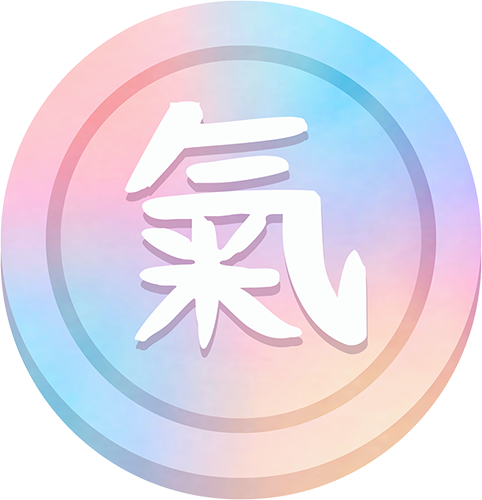
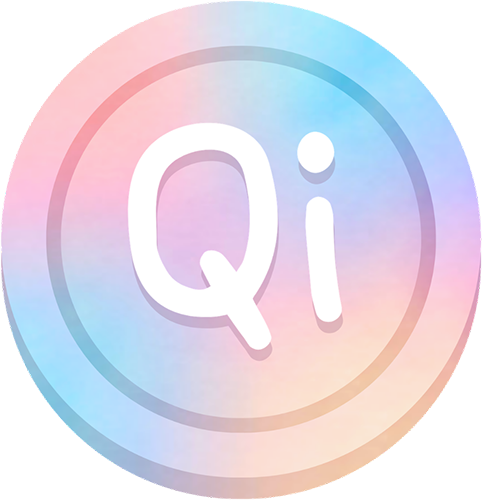
fix(v2): แบรนด์ "มูเมท", คำ 3 เท่า, และเหรียญ/ไอคอนเป็น "Qi" อังกฤษแทน 氣
- slide 1: หน้ายินดีต้อนรับ "มิวเมท" → "มูเมท"
- slide 6: "คนที่ตั้งเวลาอ่านต่อเนื่อง..." → "คนที่ตั้งเวลาอ่าน ทำต่อเนื่อง..." (ManifestScreen)
- slide 8: โทเคนทุกจุดใช้ไฟล์ Qi (อังกฤษ) แทนอักษรจีน 氣 — เขียนทับ qi-coin.png + guide/orb.png
  (ใช้ในหน้าโปรไฟล์/ดวง/แชท/ซื้อ QI/เช็คอิน) + เปลี่ยนภาพ hero คู่มือพลังชี่เป็นภาพใหม่ (2 มาสคอตถือ Qi)

Changed region(s): [[0.249, 0.18, 0.778, 0.72], [0.9959, 0.54, 1.0, 0.57], [0.9959, 0.45, 1.0, 0.48]]

diff --git a/features/v2-service/components/ManifestScreen.tsx b/features/v2-service/components/ManifestScreen.tsx
@@ -203,7 +203,7 @@ function ReminderCard() {
   return (
     <section className="rounded-[24px] bg-white p-5 v3-shadow-card" data-testid="manifest-reminder">
       <p className="text-[16px] font-bold text-v3-navy">ตั้งเวลาแมนิเฟสต์</p>
-      <p className="mt-1 text-[12px] leading-4 text-v3-text-muted">คนที่ตั้งเวลาอ่านต่อเนื่องได้นานกว่าถึง 3 เท่า</p>
+      <p className="mt-1 text-[12px] leading-4 text-v3-text-muted">คนที่ตั้งเวลาอ่าน ทำต่อเนื่องได้นานกว่าถึง 3 เท่า</p>
       <div className="mt-3 flex items-center justify-between rounded-[16px] bg-v3-ghost-white px-4 py-3">
         <div>
           <input type="time" value={time} onChange={(e) => { setTime(e.target.value); persist(e.target.value, on) }} className="bg-transparent text-[20px] font-black text-v3-navy outline-none" data-testid="manifest-reminder-time" />

diff --git a/features/v2-qi/components/QiScreen.tsx b/features/v2-qi/components/QiScreen.tsx
@@ -224,7 +224,7 @@ export function QiScreen() {
           <section data-testid="qi-hero" className="flex flex-col items-center overflow-hidden rounded-[22px] bg-white text-center">
             {/* รูปมาสคอตเต็มความสูง (4:3 ของไฟล์ 800×600) — ผู้ใช้ 2026-09-07: เอา orb กลางออก ขยายรูปลงมาแทน */}
             <span className="relative block aspect-[4/3] w-full">
-              <Image src={`${G}/hero-mascots.jpg`} alt="" fill sizes="393px" priority className="object-cover" />
+              <Image src={`${G}/hero-mascots.png`} alt="" fill sizes="393px" priority className="object-cover" />
             </span>
             <div className="flex flex-col items-center gap-3.5 px-5 pb-6 pt-4">
               <h2 className="text-[24px] font-bold leading-8 text-v3-navy">คู่มือสะสมและใช้พลังชี่</h2>

diff --git a/features/auth/components/LoginView.tsx b/features/auth/components/LoginView.tsx
@@ -40,7 +40,7 @@ export function LoginView({
           {/* heading */}
           <div className="flex flex-col gap-2.5 text-center">
             <h1 className="font-ibm text-2xl font-bold leading-8 text-v3-text-title">
-              ยินดีต้อนรับสู่ มิวเมท
+              ยินดีต้อนรับสู่ มูเมท
             </h1>
             <p className="font-ibm text-[15px] leading-[22px] text-v3-text-body">
               มาร่วมสร้างบันทึกทางใจ
